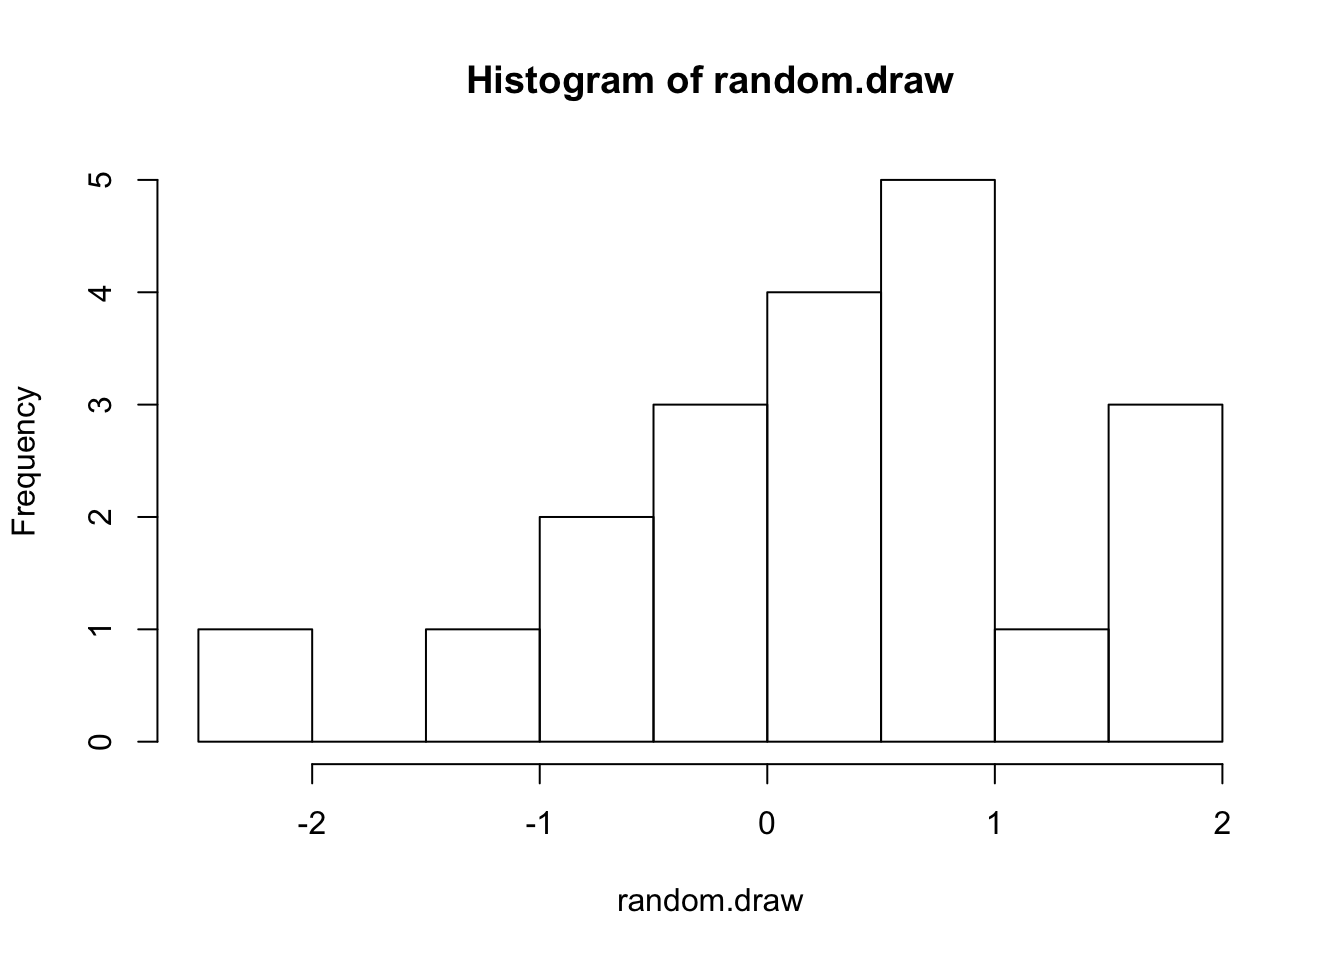
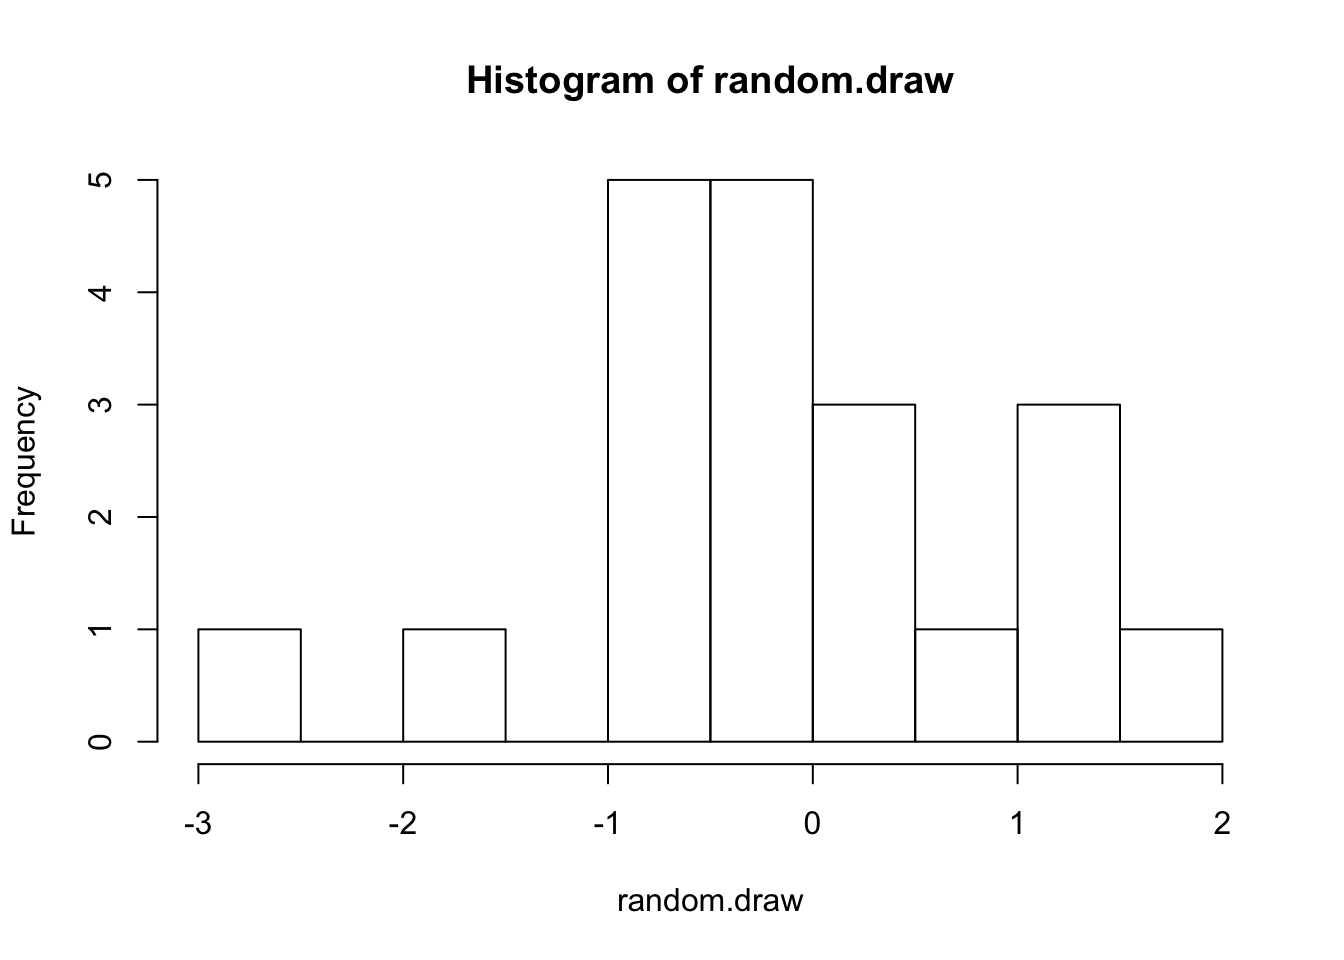
update

diff --git a/docs/introduction.html b/docs/introduction.html
@@ -295,17 +295,17 @@ $(document).ready(function () {
 <pre><code>## [1] 3</code></pre>
 <p>Another feature that is important in R, is the ability to generate numbers. This can be used for simulations or estimation. Sometimes it might just be useful to illustrate some theoretical concept. Let us consider two examples. First, let us randomly draw 20 values from a normal distribution, 20 values from a uniform distribution, and then 20 values from a binomial distribution:</p>
 <pre class="r"><code>rnorm(20, mean=0, sd=1)</code></pre>
-<pre><code>##  [1] -0.4255114 -1.1470600  0.9468976 -0.1278871 -1.0327624 -0.9560407
-##  [7]  0.2155551  0.6232071  0.2326179  0.3938856  2.1058763  0.9605780
-## [13]  0.7751575 -0.3610002  0.3629907 -1.3176921  0.4671569 -1.0210612
-## [19]  0.9708040 -0.3555208</code></pre>
+<pre><code>##  [1]  0.18609810  1.39236023  0.07949112  1.09250711  0.23887666 -0.01435971
+##  [7]  0.91977938  0.16415926 -0.58240520 -0.56637353  1.72528384 -1.53258605
+## [13]  0.56110161 -0.53862101 -1.34328487 -0.07700723 -0.03621996 -0.03654159
+## [19] -0.67274763  0.28650146</code></pre>
 <pre class="r"><code>runif(20, min=0, max=1)</code></pre>
-<pre><code>##  [1] 0.98751406 0.03752172 0.48988135 0.63835944 0.36337982 0.44758238
-##  [7] 0.55896998 0.73173903 0.88268543 0.76773969 0.96085431 0.63207578
-## [13] 0.88803921 0.81580916 0.42634245 0.54608999 0.35122802 0.75715046
-## [19] 0.96887958 0.67811650</code></pre>
+<pre><code>##  [1] 0.17674069 0.42864542 0.83388104 0.21317423 0.42052606 0.65301321
+##  [7] 0.55255467 0.58237268 0.32780672 0.15684223 0.07846509 0.09040196
+## [13] 0.96511204 0.07567198 0.25324746 0.14173193 0.03660132 0.25304221
+## [19] 0.45973314 0.66872721</code></pre>
 <pre class="r"><code>rbinom(20,size=1, prob=0.5)</code></pre>
-<pre><code>##  [1] 0 0 1 1 1 1 1 0 1 1 0 1 0 1 0 0 1 1 1 0</code></pre>
+<pre><code>##  [1] 0 1 0 0 1 1 0 0 0 0 1 1 0 0 0 0 1 1 0 1</code></pre>
 </div>
 <div id="assignment" class="section level3">
 <h3>Assignment</h3>
@@ -323,10 +323,10 @@ $(document).ready(function () {
 <p>Here another example:</p>
 <pre class="r"><code>random.draw &lt;- rnorm(20, mean=0, sd=1)
 random.draw</code></pre>
-<pre><code>##  [1]  1.3972680  0.9200925 -0.2778151 -0.5543990 -0.8275448 -1.8032373
-##  [7]  0.2679589  0.6280474 -0.2273785 -0.2629147 -0.5334663  1.1108917
-## [13] -0.6793008 -1.2964027  0.9503842  0.8244183 -0.5027954  1.7019806
-## [19] -0.1458729  0.1515291</code></pre>
+<pre><code>##  [1]  0.31593654 -0.94077117 -1.85416868  0.96087626 -0.17588488 -0.51988970
+##  [7] -0.02719276  0.69252333 -0.61996321  1.57767713 -0.25414195 -0.53442829
+## [13] -0.32087207 -0.15952638  0.04543755  0.33786276 -0.01971205  1.76428006
+## [19] -0.71633494 -0.47934477</code></pre>
 <p>We can of course also just input our own data. Let us imagine we have five countries:</p>
 <pre class="r"><code>country.names &lt;- c(&quot;A&quot;,&quot;B&quot;,&quot;C&quot;,&quot;D&quot;,&quot;E&quot;)
 country.names</code></pre>
